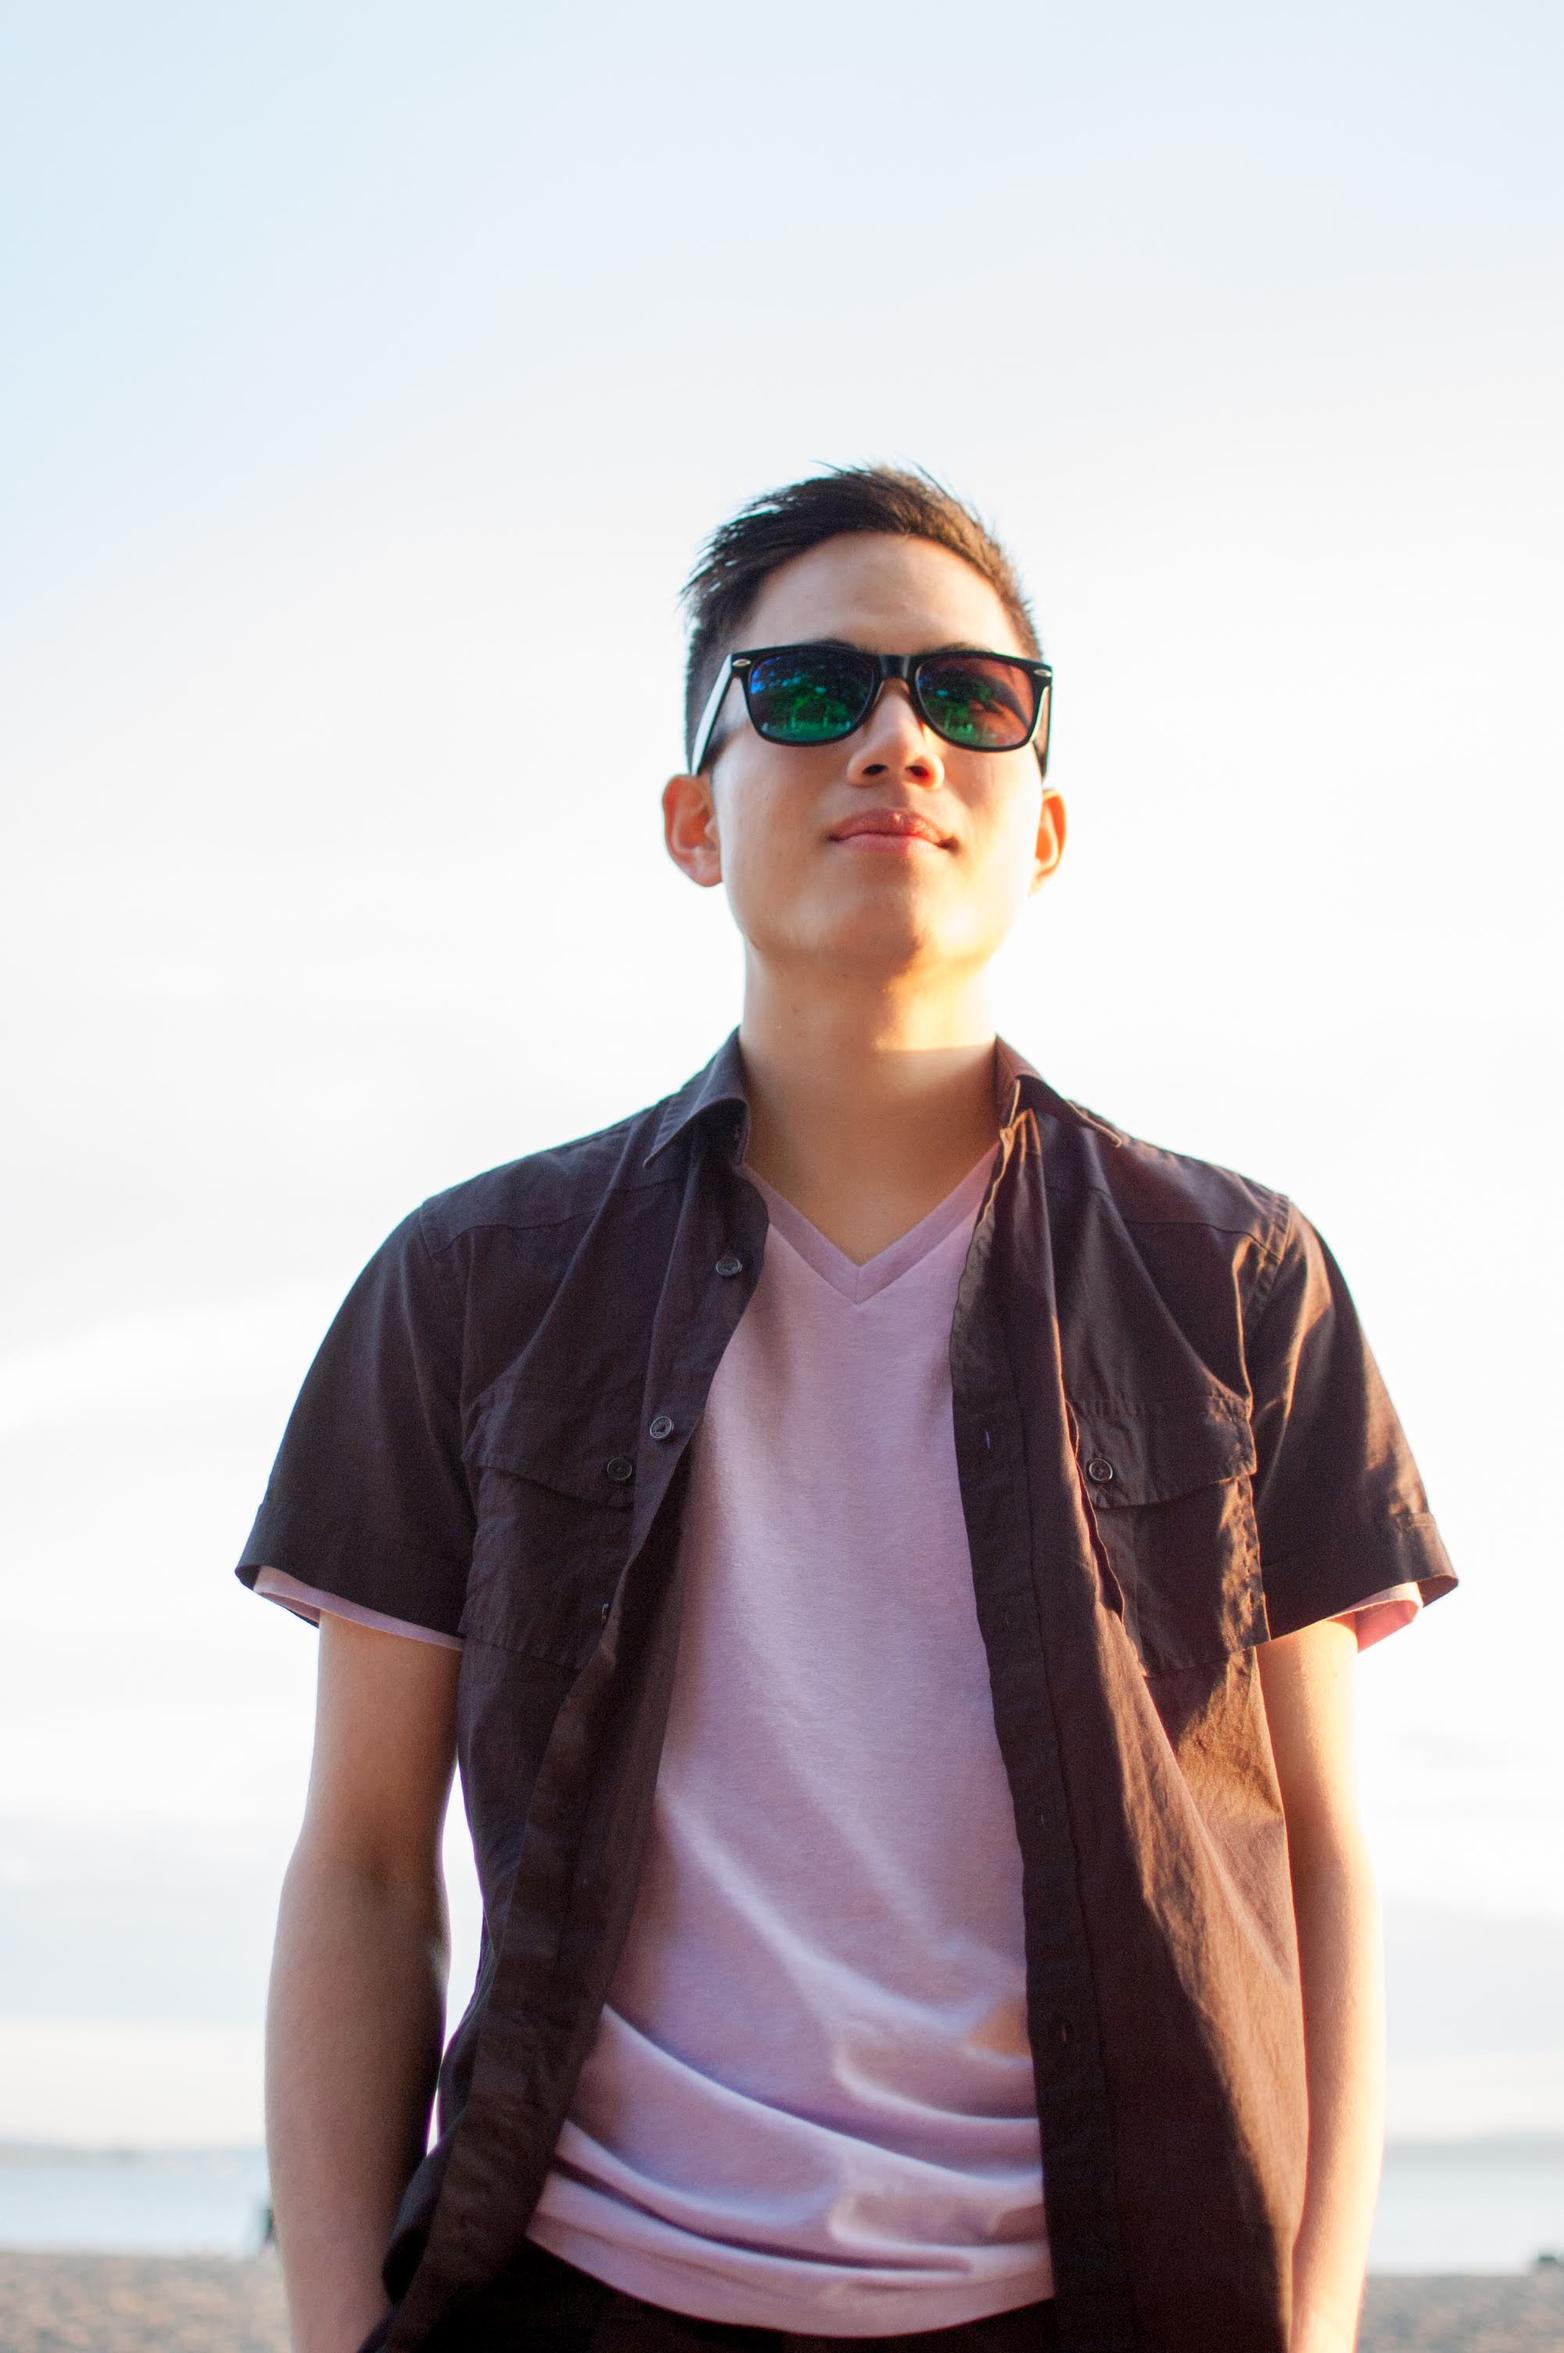
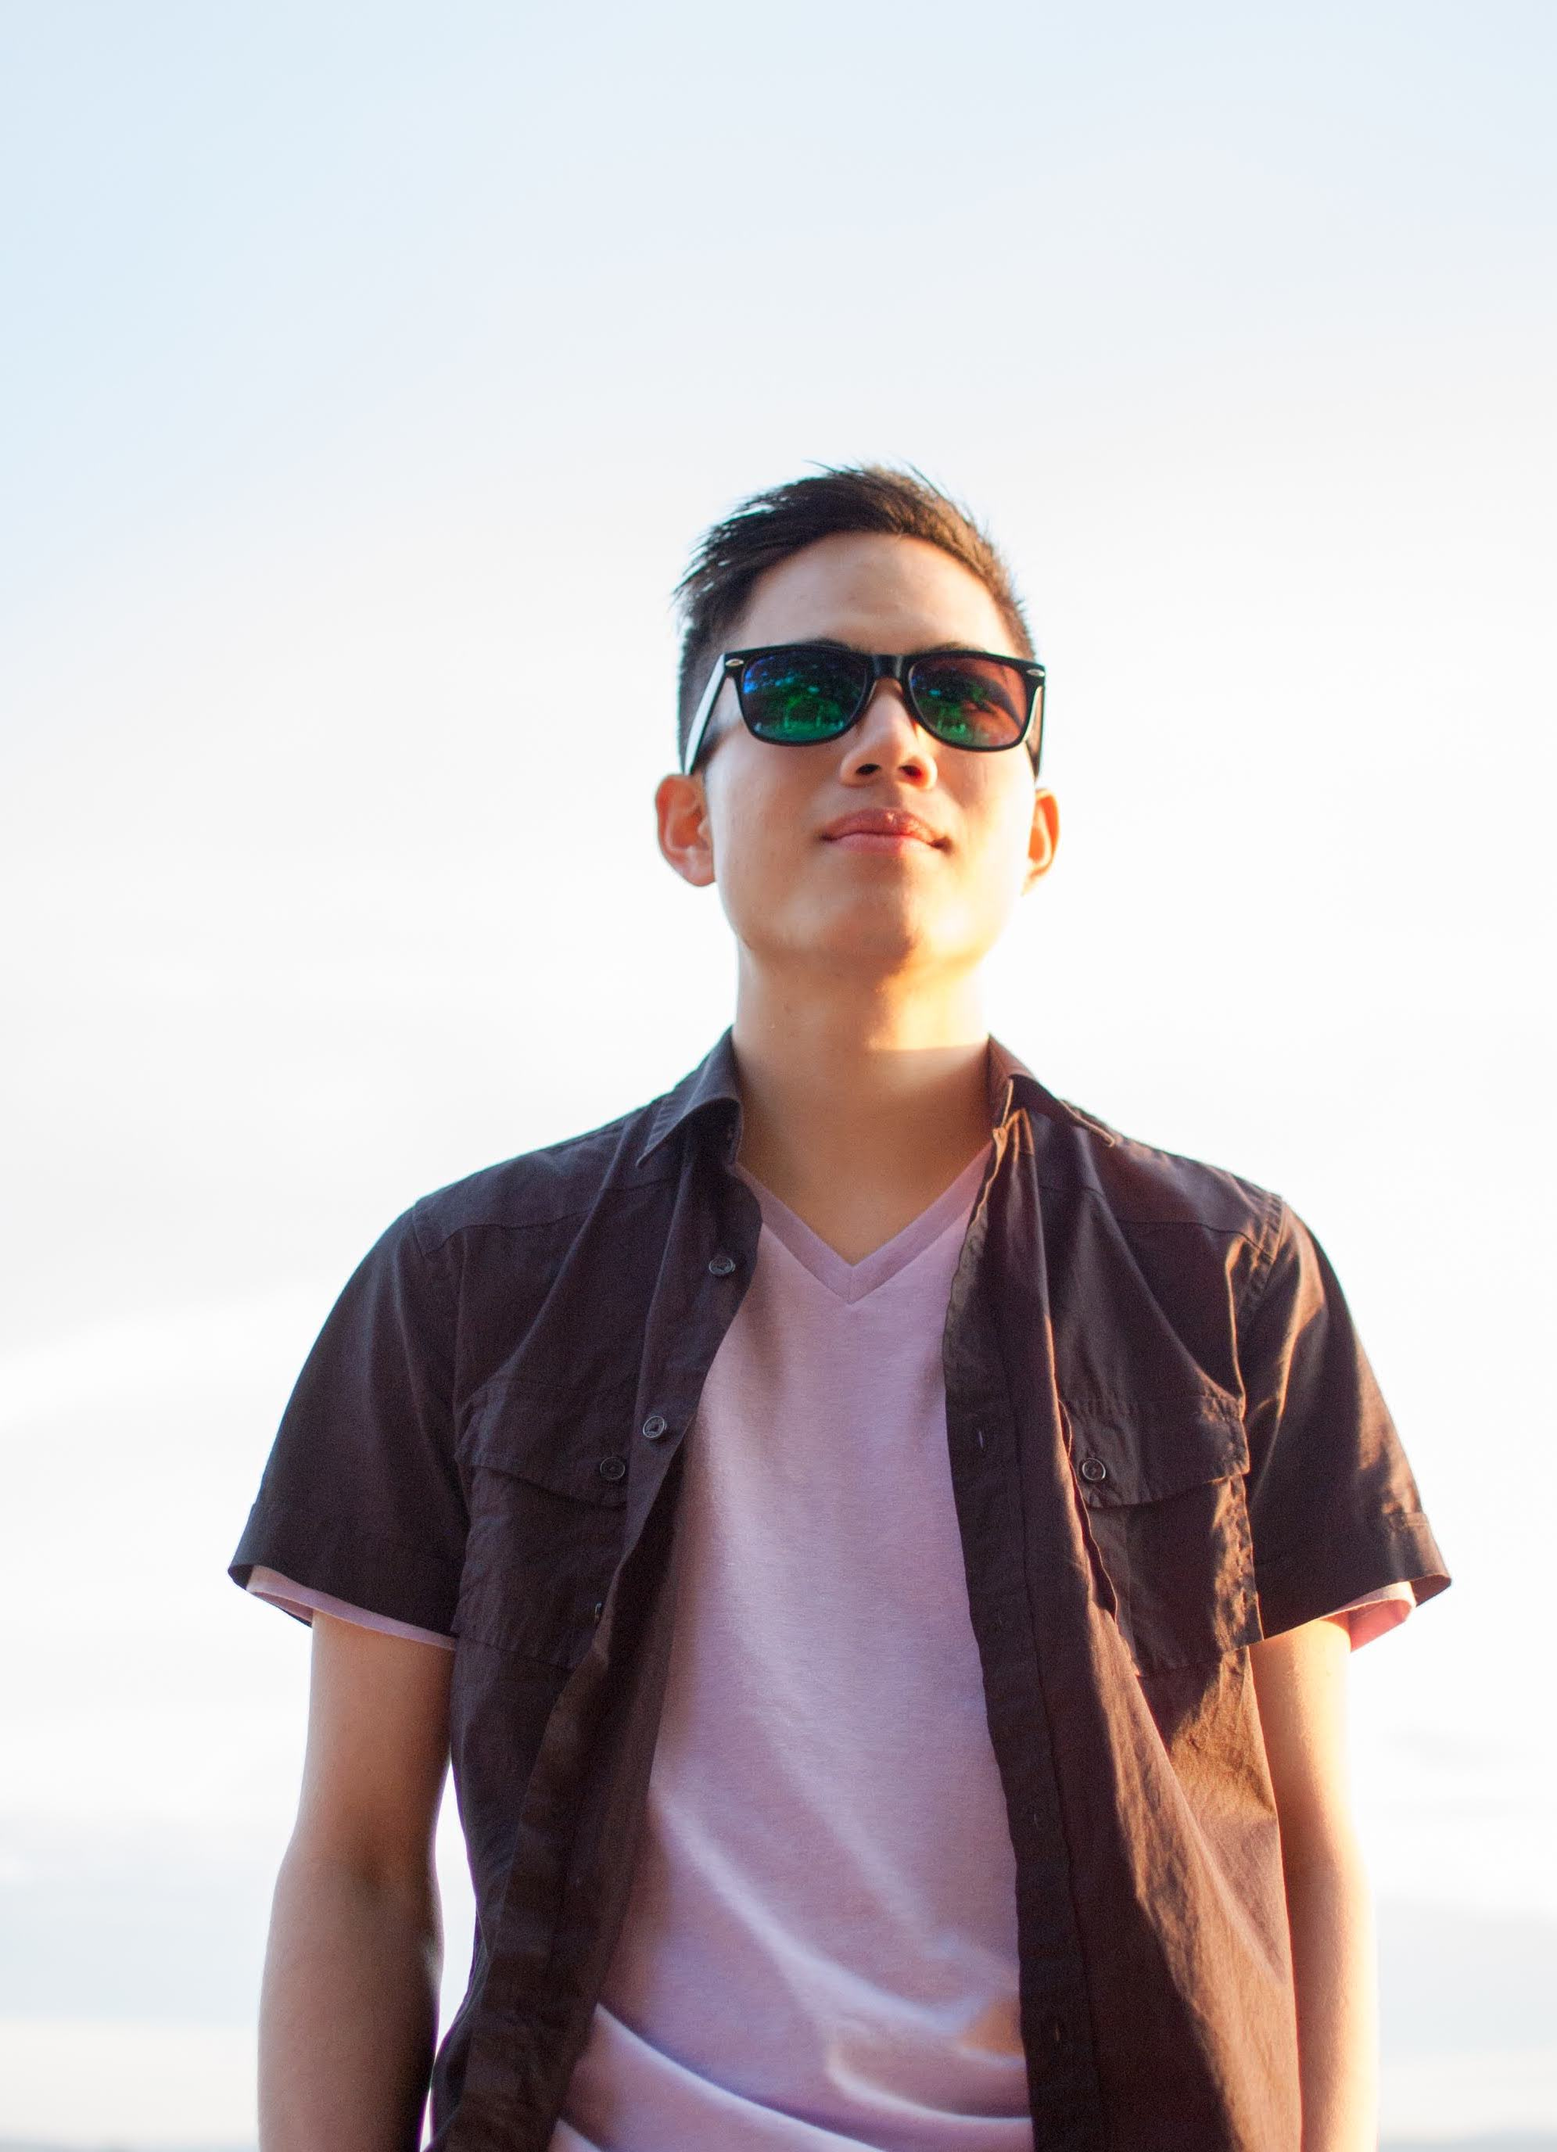
fix officer page to use bootstrap and use a better background image

Changed region(s): [[0.0, 0.1875, 1.0, 1.0], [0.7162, 0.9688, 0.7474, 1.0]]

diff --git a/officers.html b/officers.html
@@ -1,15 +1,20 @@
 <html>
+
 <head>
+  <title>Husky Badminton Club</title>
+  <meta name="description" content="The Official Website of the Husky Badminton Club at the University of Washington">
+  <meta charset="UTF-8">
   <link rel="shortcut icon" type="image/x-icon" href="favicon.ico">
   <link rel="stylesheet" href="https://use.fontawesome.com/releases/v5.0.13/css/all.css" integrity="sha384-DNOHZ68U8hZfKXOrtjWvjxusGo9WQnrNx2sqG0tfsghAvtVlRW3tvkXWZh58N9jp" crossorigin="anonymous">
-  <title>Husky Badminton Club</title>
-  <meta charset="UTF-8">
   <meta name="viewport" content="width=device-width, initial-scale=1">
   <link rel="stylesheet" href="w3.css">
   <link rel="stylesheet" href="style.css" />
   <script src="https://ajax.googleapis.com/ajax/libs/jquery/3.3.1/jquery.min.js"></script>
   <link rel="stylesheet" href="https://fonts.googleapis.com/css?family=Lato">
+  <!-- Latest compiled and minified CSS -->
+  <link rel="stylesheet" href="https://maxcdn.bootstrapcdn.com/bootstrap/4.0.0/css/bootstrap.min.css" integrity="sha384-Gn5384xqQ1aoWXA+058RXPxPg6fy4IWvTNh0E263XmFcJlSAwiGgFAW/dAiS6JXm" crossorigin="anonymous">
 </head>
+
 <body>
   <script src="script.js" type="text/javascript"></script>
   <div id="nav-placeholder"></div>
@@ -19,21 +24,30 @@
       <span class="w3-center w3-padding-large w3-black w3-xlarge w3-wide w3-animate-opacity">OFFICERS</span>
     </div>
   </div>
+  <!--Content-->
   <div class="w3-content w3-container w3-padding-64" id="officers">
     <h3 class="w3-center">2018-2019 OFFICER TEAM</h3>
-  <table style="width:90%">
-    <tr>
-    <td><img src="images/officers/isabelle.jpg" style="height: 280px;width: 210px;"/><br>Isabelle Hua<br>President</td>
-    <td><img src="images/officers/travis.jpg" style="height: 280px;width: 210px;"/><br>Travis Clement<br>Vice President</td>
-    <td><img src="images/officers/anthony.jpg" style="height: 280px;width: 210px;"/><br>Anthony Chiang<br>Treasurer</td>
-  </tr>
-</table>
-  <table style="width:60%">
-  <tr>
-    <td><img src="images/officers/jared.jpg" style="height: 280px;width: 210px;"/><br>Jared Lai <br>Secretary</td>
-    <td><img src="images/officers/jensen.jpg" style="height: 280px;max-width: 210px;"/><br />Jensen Yuen <br>Event Coordinator/Outreach</td>
-  </tr>
-  </table>
+    <div class="container">
+      <div class="row align-items-center justify-content-center center">
+        <div class="col-md">
+          <img src="images/officers/isabelle.jpg" style="height: 280px;width: 210px;" /><br>Isabelle Hua<br>President
+        </div>
+        <div class="col-md">
+          <img src="images/officers/travis.jpg" style="height: 280px;width: 210px;" /><br>Travis Clement<br>Vice President
+        </div>
+        <div class="col-md">
+          <img src="images/officers/anthony.jpg" style="height: 280px;width: 210px;" /><br>Anthony Chiang<br>Treasurer
+        </div>
+        <div class="col-md">
+          <img src="images/officers/jared.jpg" style="height: 280px;width: 210px;" /><br>Jared Lai <br>Secretary
+        </div>
+        <div class="col-md">
+          <img src="images/officers/jensen.jpg" style="height: 280px;max-width: 210px;" /><br>Jensen Yuen <br>Event Coordinator/Outreach
+        </div>
+      </div>
+    </div>
+  </div>
   <div id="footer-placeholder"></div>
 </body>
+
 </html>

diff --git a/index.html b/index.html
@@ -2,16 +2,17 @@
 <html>
 
 <head>
+  <title>Husky Badminton Club</title>
+  <meta name="description" content="The Official Website of the Husky Badminton Club at the University of Washington">  <meta charset="UTF-8">
   <link rel="shortcut icon" type="image/x-icon" href="favicon.ico">
   <link rel="stylesheet" href="https://use.fontawesome.com/releases/v5.0.13/css/all.css" integrity="sha384-DNOHZ68U8hZfKXOrtjWvjxusGo9WQnrNx2sqG0tfsghAvtVlRW3tvkXWZh58N9jp" crossorigin="anonymous">
-  <title>Husky Badminton Club</title>
-  <meta charset="UTF-8">
   <meta name="viewport" content="width=device-width, initial-scale=1">
   <link rel="stylesheet" href="w3.css">
   <link rel="stylesheet" href="style.css" />
   <script src="https://ajax.googleapis.com/ajax/libs/jquery/3.3.1/jquery.min.js"></script>
   <link rel="stylesheet" href="https://fonts.googleapis.com/css?family=Lato">
-  <meta name="description" content="The Official Website of the Husky Badminton Club at the University of Washington">
+  <!-- Latest compiled and minified CSS -->
+<link rel="stylesheet" href="https://maxcdn.bootstrapcdn.com/bootstrap/3.3.7/css/bootstrap.min.css" integrity="sha384-BVYiiSIFeK1dGmJRAkycuHAHRg32OmUcww7on3RYdg4Va+PmSTsz/K68vbdEjh4u" crossorigin="anonymous">
 </head>
 
 <body>

diff --git a/style.css b/style.css
@@ -47,8 +47,8 @@ section {
 
 /*Image 5 (Officers)*/
 .bgimg-5 {
-    background-image: url("images/2018_officers.jpg");
-    min-height: 600px;
+    background-image: url("images/2018_officer_bbq.jpg");
+    min-height: 100%;
 }
 
 .w3-wide {letter-spacing: 10px;}
@@ -164,5 +164,10 @@ section {
 table {
   margin: auto;
   padding: 10px;
+  text-align: center;
+}
+
+.center {
+  margin: auto;
   text-align: center;
 }
